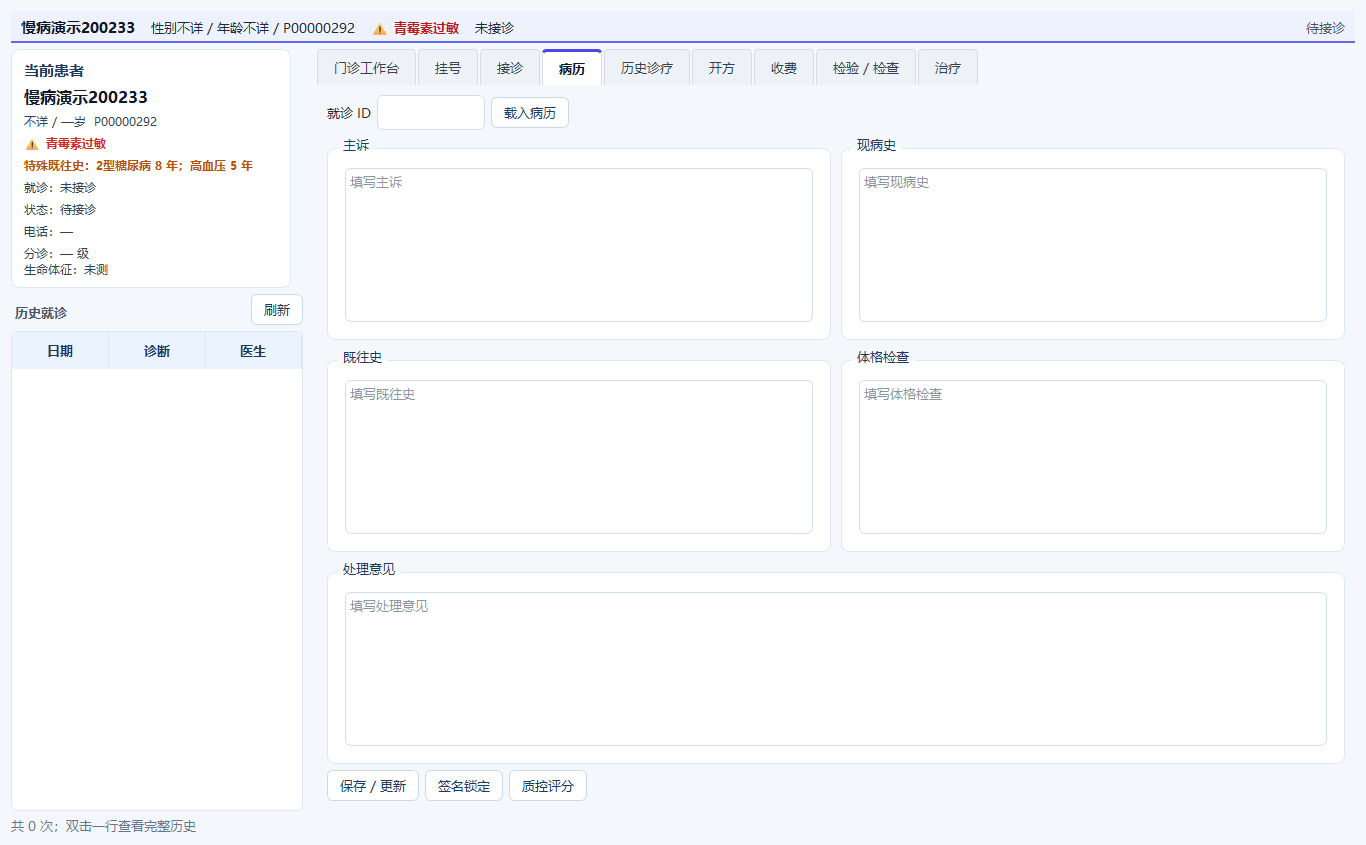
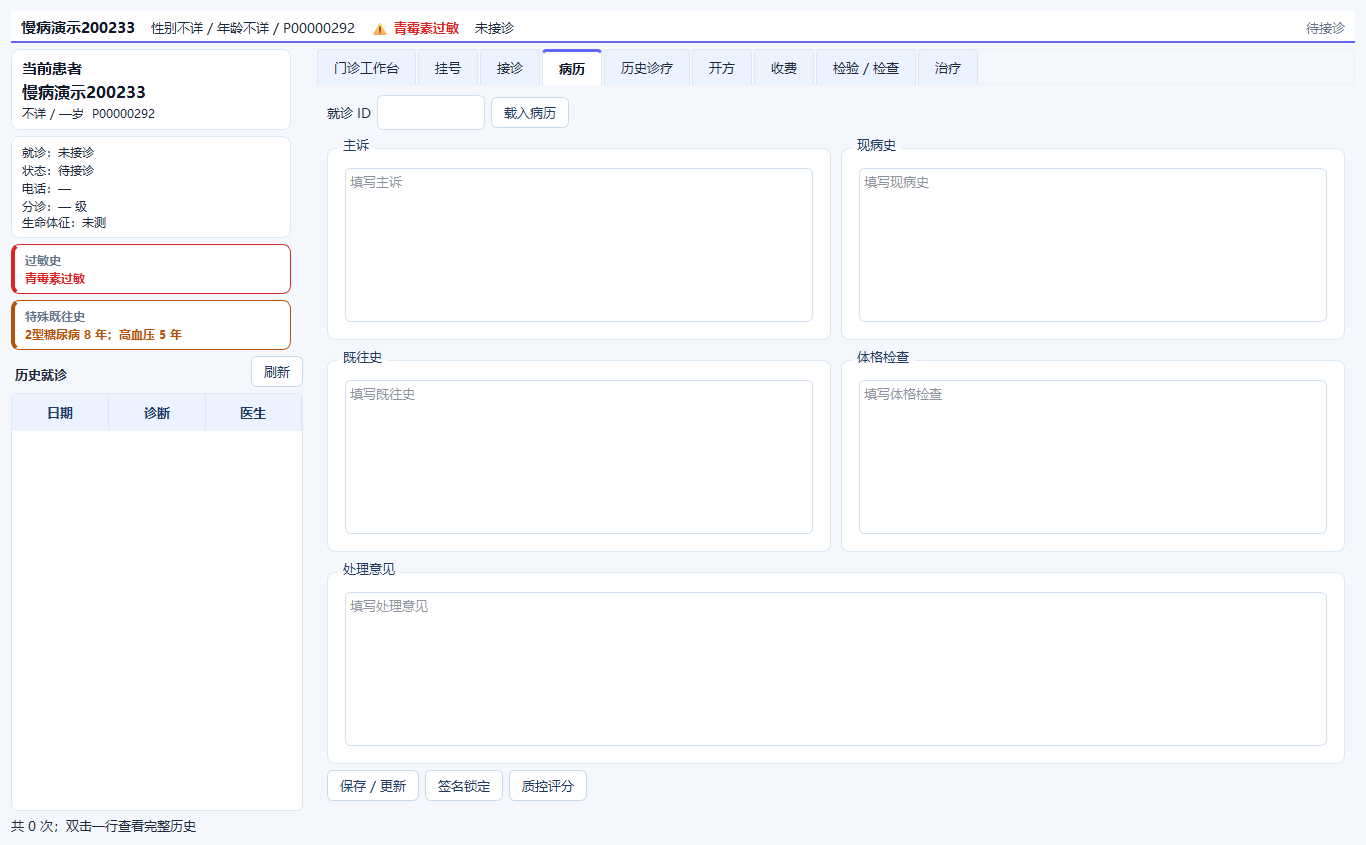
feat: 患者卡过敏史/既往史独立成框 v0.86.2

diff --git a/his_client/ui/patient_info_panel.py b/his_client/ui/patient_info_panel.py
@@ -1,5 +1,4 @@
-"""患者信息侧卡：独立显示当前患者，不承担导航。"""
-from PySide6.QtCore import Qt
+"""患者信息侧卡：基本信息、就诊信息、过敏史、特殊既往史各自独立成框。"""
 from PySide6.QtWidgets import QFrame, QLabel, QVBoxLayout
 
 from his_client.ui.theme import colors
@@ -13,38 +12,103 @@ class PatientInfoPanel(QFrame):
         self.setMaximumWidth(280)
         c = colors()
         self.setStyleSheet(
-            f"#patientInfoPanel{{background:{c['card']};border:1px solid {c['border']};border-radius:8px;}}"
-            f"#patientInfoPanel QLabel{{color:{c['text']};font-size:12px;}}"
-            f"#patientInfoPanel QLabel#title{{font-size:15px;font-weight:bold;color:{c['title']};}}"
-            f"#patientInfoPanel QLabel#allergy{{color:{c['danger']};font-weight:bold;}}"
-            f"#patientInfoPanel QLabel#history{{color:{c['warning']};font-weight:bold;}}"
+            f"""
+            #patientInfoPanel {{ background: transparent; }}
+            #headerCard, #infoCard {{
+                background: {c['card']};
+                border: 1px solid {c['border']};
+                border-radius: 8px;
+            }}
+            #allergyCard {{
+                background: {c['card']};
+                border: 1px solid {c['danger']};
+                border-left: 4px solid {c['danger']};
+                border-radius: 8px;
+            }}
+            #historyCard {{
+                background: {c['card']};
+                border: 1px solid {c['warning']};
+                border-left: 4px solid {c['warning']};
+                border-radius: 8px;
+            }}
+            #patientInfoPanel QLabel {{ color: {c['text']}; font-size: 12px; }}
+            #patientInfoPanel QLabel#title {{
+                font-size: 15px; font-weight: bold; color: {c['title']};
+            }}
+            #patientInfoPanel QLabel#cardTitle {{
+                font-size: 12px; font-weight: bold; color: {c['muted']};
+            }}
+            #patientInfoPanel QLabel#allergyValue {{
+                color: {c['danger']}; font-weight: bold;
+            }}
+            #patientInfoPanel QLabel#historyValue {{
+                color: {c['warning']}; font-weight: bold;
+            }}
+            """
         )
-        layout = QVBoxLayout(self)
-        layout.setContentsMargins(12, 10, 12, 10)
-        layout.setSpacing(6)
+        outer = QVBoxLayout(self)
+        outer.setContentsMargins(0, 0, 0, 0)
+        outer.setSpacing(6)
+
+        header = QFrame()
+        header.setObjectName("headerCard")
+        header_layout = QVBoxLayout(header)
+        header_layout.setContentsMargins(10, 8, 10, 8)
+        header_layout.setSpacing(3)
         self.title = QLabel("当前患者")
         self.title.setObjectName("title")
         self.name = QLabel("未选择")
         self.name.setStyleSheet(f"font-size:16px;font-weight:bold;color:{c['title']};")
         self.demo = QLabel("")
-        self.allergy = QLabel("")
-        self.allergy.setObjectName("allergy")
-        self.allergy.setWordWrap(True)
-        self.history = QLabel("")
-        self.history.setObjectName("history")
-        self.history.setWordWrap(True)
+        header_layout.addWidget(self.title)
+        header_layout.addWidget(self.name)
+        header_layout.addWidget(self.demo)
+        outer.addWidget(header)
+
+        info = QFrame()
+        info.setObjectName("infoCard")
+        info_layout = QVBoxLayout(info)
+        info_layout.setContentsMargins(10, 7, 10, 7)
+        info_layout.setSpacing(2)
         self.encounter = QLabel("")
         self.status = QLabel("")
         self.status.setWordWrap(True)
         self.phone = QLabel("")
         self.extra = QLabel("")
         self.extra.setWordWrap(True)
-        for widget in (
-            self.title, self.name, self.demo, self.allergy, self.history,
-            self.encounter, self.status, self.phone, self.extra,
-        ):
-            layout.addWidget(widget)
-        layout.addStretch(1)
+        for widget in (self.encounter, self.status, self.phone, self.extra):
+            info_layout.addWidget(widget)
+        outer.addWidget(info)
+
+        allergy_card = QFrame()
+        allergy_card.setObjectName("allergyCard")
+        allergy_layout = QVBoxLayout(allergy_card)
+        allergy_layout.setContentsMargins(10, 7, 10, 7)
+        allergy_layout.setSpacing(2)
+        allergy_title = QLabel("过敏史")
+        allergy_title.setObjectName("cardTitle")
+        self.allergy = QLabel("过敏史不详")
+        self.allergy.setObjectName("allergyValue")
+        self.allergy.setWordWrap(True)
+        allergy_layout.addWidget(allergy_title)
+        allergy_layout.addWidget(self.allergy)
+        outer.addWidget(allergy_card)
+
+        history_card = QFrame()
+        history_card.setObjectName("historyCard")
+        history_layout = QVBoxLayout(history_card)
+        history_layout.setContentsMargins(10, 7, 10, 7)
+        history_layout.setSpacing(2)
+        history_title = QLabel("特殊既往史")
+        history_title.setObjectName("cardTitle")
+        self.history = QLabel("无特殊")
+        self.history.setObjectName("historyValue")
+        self.history.setWordWrap(True)
+        history_layout.addWidget(history_title)
+        history_layout.addWidget(self.history)
+        outer.addWidget(history_card)
+
+        outer.addStretch(1)
         self.patient_id = 0
         self.encounter_id = 0
 
@@ -68,13 +132,9 @@ class PatientInfoPanel(QFrame):
             f"{patient.get('patient_no') or ''}"
         )
         allergy = patient.get("allergy_label") or "过敏史不详"
-        self.allergy.setText(
-            f"⚠ {allergy}"
-            if allergy not in ("无过敏史", "不详", "过敏史不详")
-            else allergy
-        )
+        self.allergy.setText(allergy)
         special = (patient.get("special_history") or "").strip()
-        self.history.setText(f"特殊既往史：{special or '无特殊'}")
+        self.history.setText(special or "无特殊")
         self.encounter.setText(
             f"就诊：{self.encounter_id}" if self.encounter_id else "就诊：未接诊"
         )
@@ -88,8 +148,8 @@ class PatientInfoPanel(QFrame):
         self.encounter_id = 0
         self.name.setText("未选择")
         self.demo.setText("")
-        self.allergy.setText("")
-        self.history.setText("")
+        self.allergy.setText("过敏史不详")
+        self.history.setText("无特殊")
         self.encounter.setText("")
         self.status.setText("")
         self.phone.setText("")

diff --git a/app/version.py b/app/version.py
@@ -1,6 +1,6 @@
 """版本信息：服务端与客户端共用（客户端打包时读取）。"""
 APP_NAME = "HIS 门诊部系统"
-APP_VERSION = "0.86.1"
+APP_VERSION = "0.86.2"
 API_VERSION = "v1"
 # 低于该版本的客户端提示升级
-CLIENT_MIN_VERSION = "0.86.1"
+CLIENT_MIN_VERSION = "0.86.2"

diff --git a/his_client/__init__.py b/his_client/__init__.py
@@ -5,6 +5,6 @@
 - api：REST API 封装
 - ui：登录对话框、主窗口、收费员工作站
 """
-CLIENT_VERSION = "0.86.1"
+CLIENT_VERSION = "0.86.2"
 
 __all__ = ["CLIENT_VERSION"]

diff --git a/docs/患者特殊既往史.md b/docs/患者特殊既往史.md
@@ -14,10 +14,12 @@
 
 ## 显示
 
-门诊工作站左侧患者卡：
+门诊工作站左侧患者卡拆成独立框：
 
-- 过敏史：红色
-- 特殊既往史：橙色
+- 基本信息框
+- 就诊信息框
+- 过敏史框（红色边框）
+- 特殊既往史框（橙色边框）
 - 无资料显示“无特殊”
 
 医生站工作台右侧患者卡、收费/检验/治疗子页左侧患者卡同步显示。
